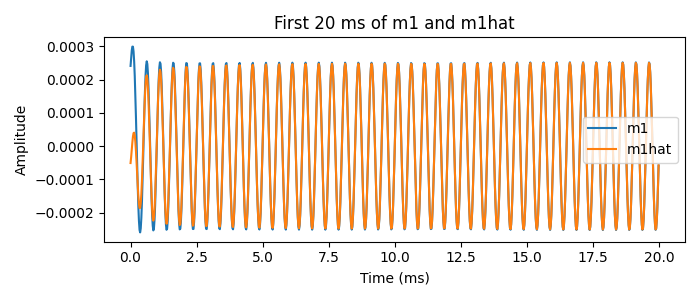
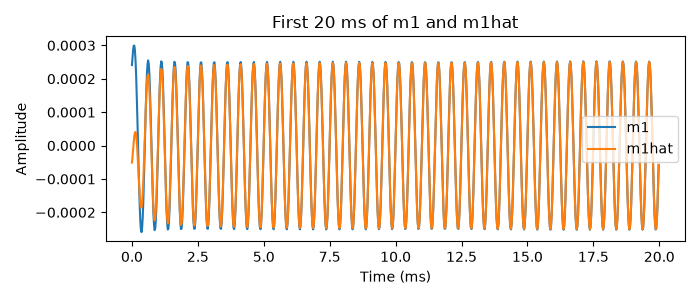
rename waveform plots to spectrums

diff --git a/Lab_5/Python/lab5.py b/Lab_5/Python/lab5.py
@@ -57,15 +57,15 @@ m1 = m1 / np.max(np.abs(m1))
 m2 = ideal_lowpass(m2raw, fs, W)
 m2 = m2 / np.max(np.abs(m2))
 
-plot_spectrum(m1, fs, 8000, "Clip 1 Band-Limited Waveform")
-plot_spectrum(m2, fs, 8000, "Clip 2 Band-Limited Waveform")
+plot_spectrum(m1, fs, 8000, "Clip 1 Band-Limited Spectrum")
+plot_spectrum(m2, fs, 8000, "Clip 2 Band-Limited Spectrum")
 save_audio("band-limited_clip1.wav", m1)
 save_audio("band-limited_clip2.wav", m2)
 
 c1 = np.cos(2 * np.pi * f1 * t)
 c2 = np.cos(2 * np.pi * f2 * t)
 x = m1 * c1 + m2 * c2
-plot_spectrum(x, fs, 20000, "Transmitted Signal x(t) Waveform")
+plot_spectrum(x, fs, 20000, "Transmitted Signal x(t) Spectrum")
 
 r1 = x * np.cos(2 * np.pi * f1 * t)
 plot_spectrum(r1, fs, 20000, "Demodulated Channel 1 Spectrum")
@@ -156,7 +156,7 @@ m2RChat = 2 * fftconvolve(r2RC, kernel)[:N]
 save_audio("RC_reconstructed_clip1.wav", m1RChat)
 save_audio("RC_reconstructed_clip2.wav", m2RChat)
 
-plot_spectrum(m1hat, fs, 8000, "Clip 1 Reconstructed Waveform")
-plot_spectrum(m2hat, fs, 8000, "Clip 2 Reconstructed Waveform")
-plot_spectrum(m1RChat, fs, 8000, "Clip 1 RC Reconstructed Waveform")
-plot_spectrum(m2RChat, fs, 8000, "Clip 2 RC Reconstructed Waveform")
+plot_spectrum(m1hat, fs, 8000, "Clip 1 Reconstructed Spectrum")
+plot_spectrum(m2hat, fs, 8000, "Clip 2 Reconstructed Spectrum")
+plot_spectrum(m1RChat, fs, 8000, "Clip 1 RC Reconstructed Spectrum")
+plot_spectrum(m2RChat, fs, 8000, "Clip 2 RC Reconstructed Spectrum")
